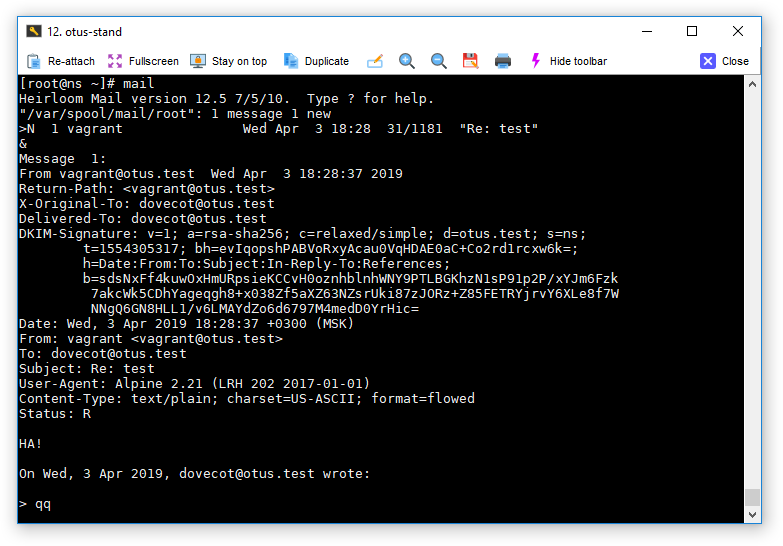
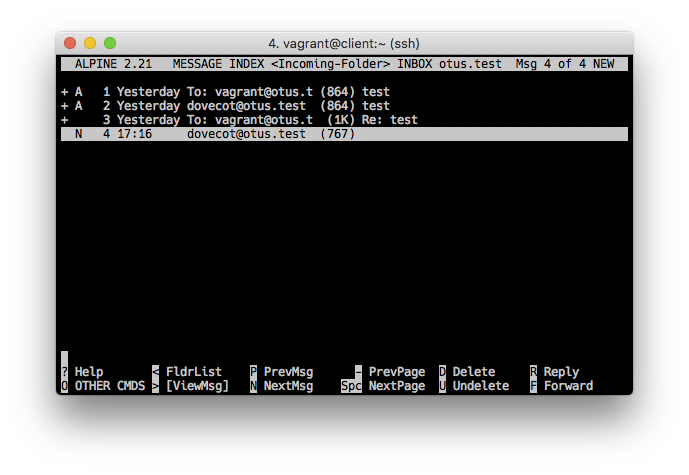
final

diff --git a/hw27/README.md b/hw27/README.md
@@ -1,83 +1,111 @@
-## Postfix, Dovecot
+## Почтовый сервер: Postfix, Dovecot
 
+### Задача:
 
-1. Установить postfix+dovecot для приёма почты на виртуальный домен
-2. Отправить почту телнетом с хоста на виртуалку
-3. Принять почту на хост почтовым клиентом
+1. Установить postfix и dovecot для приёма почты на виртуальный домен;
+2. Отправить почту телнетом с клиента на сервер;
+3. Принять почту на клиент почтовым клиентом.
 
-Результат
-1. Полученное письмо со всеми заголовками
-2. Конфиги postfix и dovecot
+Соберем стенд из двух виртуальных машин `ns.otus.test` и `client.otus.test`. Развернем на `ns.otus.test` сервис DNS с записями в файле зоны относящимися к работе почтового сервера, настроим postfix, установим и настроим opendkim и dovecot. 
 
-`
-echo "qq" | mailx -s "test" -r "<vagrant@otus.test>" vagrant@otus.test
-echo "qq" | mailx -s "test" -r "<dovecot@otus.test>" vagrant@otus.test
-`
+### 1. DNS
+
+Конфигурацию DNS сервера и файлы зоны возьмем из [21 домашнего задания](https://github.com/kakoka/otus-homework/tree/master/hw21). Модифицируем [роль](provision/roles/dns) развертывания DNS сервера исходя из требований задачи. Будем использовать связку DKIM c spf.
+
+Изменим файл зоны `otus.test`, добавим MX и TXT записи:
 
 <pre>
-[root@client ~]# telnet ns 143
-Trying 192.168.50.10...
-Connected to ns.
-Escape character is '^]'.
-* OK [CAPABILITY IMAP4rev1 LITERAL+ SASL-IR LOGIN-REFERRALS ID ENABLE IDLE AUTH=PLAIN] Dovecot ready.
-a login vagrant vagrant
+$TTL 3600
+$ORIGIN otus.test.
+@               IN      SOA     ns.otus.test. root.otus.test. (
+                            1502201901 ; serial
+                            3600       ; refresh (1 hour)
+                            600        ; retry (10 minutes)
+                            86400      ; expire (1 day)
+                            600        ; minimum (10 minutes)
+                        )
+                        IN      NS      ns.otus.test.
+otus.test.              IN      MX      10 ns.otus.test.
+
+ns                      IN      A       192.168.50.10
+client                  IN      A       192.168.50.100
+
+otus.test.              IN      TXT     "v=spf1 mx a ip4:192.168.50.10 a:ns.otus.test -all"
+ns._domainkey.otus.test IN      TXT     "v=DKIM1\;k=rsa\;p=xxxxxx...xxxx"
 </pre>
 
-### 1. DNS, NTP
-
-Конфигурацию DNS сервера и файлы зоны возьмем из [21 домашнего задания](https://github.com/kakoka/otus-homework/tree/master/hw21). Модифицируем настройки исходя из конфигурации нашего стенда - домен `otus.test`, напишем [роль](provision/roles/dns) развертывания DNS сервера. Внесем изменения в [`/etc/resolv.conf`](provision/roles/dns/files/resolv.conf) на клиенте и на сервере.
-
-Настроим штатный сервис синхронизации времени для Centos/7 - `chronyd` как локальный сервер NTP. Сервер будет синхронизироваться с одним из серверов из пула `0.rhel.pool.ntp.org`, клиент будет синхронизироваться уже с нашим сервером. Роли для [сервера](provision/roles/ntp) и для [клиента](provision/roles/ntp-client).
-
-Конфигурация сервера:
-<pre>
-server 0.centos.pool.ntp.org iburst
-manual
-allow 192.168.0.0/16
-local stratum 8
-</pre>
-
-Конфигурация клиента:
-<pre>
-server ns.otus.test iburst
-driftfile /var/lib/chrony/drift
-logdir /var/log/chrony
-log measurements statistics tracking
-</pre>
-
-Соответствующие роли: [сервер](provision/roles/ntp), [клиент](provision/roles/ntp-client).
+Укажем в файле зоны, что `ns.otus.test` предназначен для работы в качестве почтового сервера (тип записи MX). В TXT записи `otus.test. IN TXT "v=spf1 mx a ip4:192.168.50.10 a:ns.otus.test -all"` укажем, что этот же сервер уполномочен отправлять почту от имени нашего домена. В другой TXT записи укажем публичный ключ домена `ns._domainkey.otus.test IN TXT "v=DKIM1\;k=rsa\;p=xxxxxx...xxxx"` (вместо `xxx.xxx` - в файле зоны прописан публичный ключ для дешифровки подписанных приватным ключом заголовков сообщений). Сгенерируем заранее приватный/публичный ключи и добавим приватный ключ в файлы роли настройки [postfix](provision/roles/postfix).
 
 ### 2. Postfix
 
-### 3. Dovecot
+Для настройки postfix написана [роль](provision/roles/postfix), которая копирует конфигурационный файл с настройками в `/etc/postfix/main.cf`. В нем указываем имя домена, доверенные сети, интерфейсы и т.д. 
 
-### 3. DKIM
-
-### 4. Firewalld
-
-Для корректной работы в сети NFS сервера с использованием Kerberos требуется открыть порты для сервисов:
-
-- SSH (22/tcp)
-- NTP (123/udp)
-- DNS (53/tcp, 53/udp)
-- Kerberos (88/tcp, 88/udp, 794/tcp - см. файл [kerberos.xml](provision/roles/firewall/files/kerberos.xml)) 
-- NFS (111/tcp, 111/upd - rpc-bind, 2049/tcp, 2049/udp - nfs сервер)
+Дополнительно вместе с postfix развернем opendkim сервис для работы с цифровой подписью. Добавим в main.cf настройки для совместной работы с postfix:
 
 <pre>
-firewall-cmd --permanent --add-service=rpc-bind
-firewall-cmd --permanent --add-service=mountd
-firewall-cmd --permanent --add-port=2049/tcp
-firewall-cmd --permanent --add-port=2049/udp
-firewall-cmd --reload
+milter_protocol = 2
+milter_default_action = accept
+smtpd_milters = inet:localhost:50055
+non_smtpd_milters = inet:localhost:50055
+</pre> 
+
+Конфигурация opendkim:
+
+<pre>
+Domain                  otus.test
+Socket                  inet:50055@localhost
+Syslog                  Yes
+SyslogSuccess           Yes
+LogWhy                  Yes
+AutoRestart             Yes
+AutoRestartRate         10/1h
+Umask                   002
+Canonicalization        relaxed/simple
+ExternalIgnoreList      refile:/etc/opendkim/TrustedHosts
+InternalHosts           refile:/etc/opendkim/TrustedHosts
+KeyTable                refile:/etc/opendkim/KeyTable
+SigningTable            refile:/etc/opendkim/SigningTable
+Mode                    sv
+PidFile                 /var/run/opendkim/opendkim.pid
+SignatureAlgorithm      rsa-sha256
+UserID                  opendkim:opendkim
 </pre>
 
-Добавим их в правила файерволла, написана соответствующая [роль](provision/roles/firewall).
+В `/etc/opendkim/keys` положим наш приватный ключ и установим ему права только на чтение.
 
-### 5. Использование стенда
+### 3. Dovecot
 
-После клонирования репозитория, `vagrant up`, `vagrant ssh client`.
+Написана роль для установки [Dovecot](provision/roles/dovecot). В конфигурационных файлах включены протоколы pop3 и imap ([dovecot.conf](provision/roles/dovecot/files/dovecot.conf)), отключена возможность установки соединения по ssl (для упрощения работы - [10-ssl.conf](provision/roles/dovecot/files/10-ssl.conf)), определены каталоги для хранения почты пользователей `mail_location = mbox:~/mail:INBOX=/var/mail/%u` ([10-mail.conf](provision/roles/dovecot/files/10-mail.conf)), включена аутентификация с передачей незашифрованных паролей `disable_plaintext_auth = no` ([10-auth.conf](provision/roles/dovecot/files/10-auth.conf)). 
 
-### 6. Ссылки
+C помощью шаблона генерируется файл с учетными записями пользователей:
+
+```python
+{% for user in users %}
+{{ user.name }}:{PLAIN}{{ user.password }}:{{ user.uid }}:{{ user.gid }}::/home/{{ user.name }}
+{% endfor %}
+```
+
+### 4. Использование стенда
+
+После клонирования репозитория, `vagrant up`, `vagrant ssh client`. На клиент установлен почтовый клиент `alpine`, который уже пред настроен на работы с почтовым сервером по протоколу imap (логин/пароль: vagrant/vagrant).
+
+Тест отправки почты на сервере (с клиента тоже работает):
+
+![pic01](pic/pic01.png)
+
+В `/var/log/maillog` Видим, как добавилась цифровая подпись к отправляемому письму. Так же видим в логе, как подключился клиент по `imap` с `client.otus.test`.
+
+![pic02](pic/pic02.png)
+
+Список тестовых писем.
+
+![pic03](pic/pic03.png)
+
+Смотрим заголовки письма, видим DKIM-Signature:
+
+![pic04](pic/pic04.png)
+
+### 5. Ссылки
 
 - https://habr.com/ru/company/ruvds/blog/325356/
 - https://support.rackspace.com/how-to/dovecot-installation-and-configuration-on-centos/
